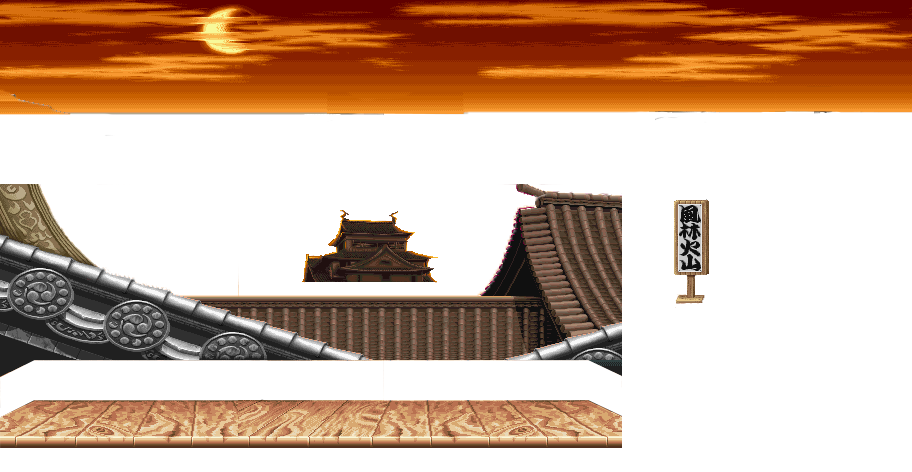
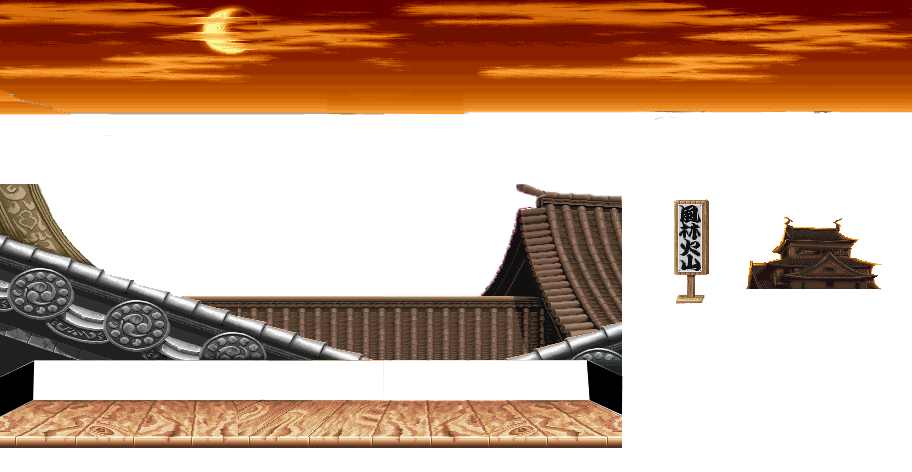
posar be el background + canvis
canvis:
Eliminacio del module scene honda
Eliminacio de alguns comentris iecesaris
problema:
Tenim memory leaks al canviar de la primera escena a la segona de lluita

diff --git a/Street Fighter (hangout 5)/ModuleSceneKen.cpp b/Street Fighter (hangout 5)/ModuleSceneKen.cpp
@@ -6,9 +6,10 @@
 #include "ModuleInput.h"
 #include "ModuleTextures.h"
 #include "ModuleSceneKen.h"
-#include "ModuleSceneHonda.h"
 #include "ModulePlayer.h"
 #include "ModuleFadeToBlack.h"
+#include "ModuleCongratsScreen.h"
+
 // Reference at https://www.youtube.com/watch?v=OEhmUuehGOA
 
 ModuleSceneKen::ModuleSceneKen()
@@ -31,6 +32,12 @@ ModuleSceneKen::ModuleSceneKen()
 	background.w = 622;
 	background.h = 193;
 
+	castle.x = 744;
+	castle.y = 215;
+	castle.w = 138;
+	castle.h = 73;
+
+
 
 	// for moving the foreground
 	foreground_pos = 0;
@@ -46,17 +53,8 @@ bool ModuleSceneKen::Start()
 	LOG("Loading ken scene");
 
 	graphics = App->textures->Load("scene_ryu.png");
-
-	// TODO 1: Enable (and properly disable) the player module
-	if (ModuleSceneKen::IsEnabled() == true) {
-		App->scene_ken->Enable();
-		App->player->Enable();
-		App->player2->Enable();
-	}
-	else {
-		App->player->Disable();
-		App->player2->Disable();
-	}
+	App->player->Enable();
+	App->player2->Enable();
 	return true;
 }
 
@@ -64,37 +62,26 @@ bool ModuleSceneKen::Start()
 bool ModuleSceneKen::CleanUp()
 {
 	LOG("Unloading ken scene");
-
+	App->textures->Unload(graphics);
+	App->player->Disable();
+	App->player2->Disable();
 	return true;
 }
 
 // Update: draw background
 update_status ModuleSceneKen::Update()
 {
-	// Calculate boat Y position -----------------------------
-	if (foreground_pos < -6.0f)
-		forward = false;
-	else if (foreground_pos > 0.0f)
-		forward = true;
-
-	if (forward)
-		foreground_pos -= 0.02f;
-	else
-		foreground_pos += 0.02f;
-
 	// Draw everything --------------------------------------
 	App->render->Blit(graphics, 0, 0, &sky, 0.75f);
-	App->render->Blit(graphics, 0, 0, &background, 0.75f); // sea and sky
-	App->render->Blit(graphics, 0, 170, &ground);
+	App->render->Blit(graphics, 280, 39, &castle);
+	App->render->Blit(graphics, 0, 0, &background, 0.75f);
+	App->render->Blit(graphics, 0, 176, &ground);
 
-	// TODO 2: make so pressing SPACE the HONDA stage is loaded
-	/*if (App->input->keyboard[SDL_SCANCODE_SPACE] == 1)
-	{
-		if (App->scene_ken->IsEnabled() == true)
-			App->fade->FadeToBlack(App->scene_ken, App->scene_honda);
 
-	}*/
-	if (App->player->position.x > 300)
-		App->fade->FadeToBlack(App->scene_ken, App->scene_honda);
+	if (App->input->keyboard[SDL_SCANCODE_SPACE] == 1) {
+		App->fade->FadeToBlack(App->scene_ken, App->congratsscreen,1);
+		if (App->player->position.x > 300)
+			App->fade->FadeToBlack(App->scene_ken, App->congratsscreen,1);
+	}
 	return UPDATE_CONTINUE;
 }

diff --git a/Street Fighter (hangout 5)/ModuleCongratsScreen.cpp b/Street Fighter (hangout 5)/ModuleCongratsScreen.cpp
@@ -3,7 +3,6 @@
 #include <crtdbg.h>
 #include "Globals.h"
 #include "Application.h"
-#include "ModuleSceneHonda.h"
 #include "ModuleSceneKen.h"
 #include "ModuleWelcomeScreen.h"
 #include "ModuleCongratsScreen.h"
@@ -18,23 +17,8 @@
 
 ModuleCongratsScreen::ModuleCongratsScreen()
 {
-	// ground
-	//ground = { 8, 376, 848, 64 };
-
-	// roof
-	//roof = { 91, 7, 765, 49 };
-
-	// foreground
-	//foreground = { 164, 66, 336, 51 };
-
 	// Background / sky
 	background = { 120, 128, 671, 300 };
-
-	// flag animation
-	/*water.PushBack({ 8, 447, 283, 9 });
-	water.PushBack({ 296, 447, 283, 12 });
-	water.PushBack({ 588, 447, 283, 18 });
-	water.speed = 0.02f;*/
 }
 
 ModuleCongratsScreen::~ModuleCongratsScreen()
@@ -46,9 +30,6 @@ bool ModuleCongratsScreen::Start()
 	LOG("Loading background assets");
 	bool ret = true;
 	graphics = App->textures->Load("honda_stage4.png");
-
-	// TODO 1: Enable (and properly disable) the player module
-	App->welcomescreen->Enable();
 	return ret;
 }
 
@@ -57,25 +38,16 @@ bool ModuleCongratsScreen::CleanUp()
 {
 	// TODO 5: Remove all memory leaks
 	LOG("Unloading honda stage");
-	_CrtDumpMemoryLeaks();
+	App->textures->Unload(graphics);
 	return true;
 }
 
 // Update: draw background
 update_status ModuleCongratsScreen::Update()
 {
-	// Draw everything --------------------------------------	
-	//App->render->Blit(graphics, 0, 160, &ground);
 	App->render->Blit(graphics, -150, -45, &background, 0.75f); // back of the room
-
-	//App->render->Blit(graphics, 280, 125, &foreground);
-	//App->render->Blit(graphics, 305, 136, &(water.GetCurrentFrame())); // water animation
-	//App->render->Blit(graphics, 0, -16, &roof, 0.75f);
-
-	// TODO 2: make so pressing SPACE the KEN stage is loaded
-	/*if (App->input->keyboard[SDL_SCANCODE_SPACE] == 1)
-	{
-		App->fade->FadeToBlack(App->congratsscreen, App->welcomescreen);
-	*/
+	if (App->input->keyboardstates[SDL_SCANCODE_SPACE] == 1) {
+		App->fade->FadeToBlack(App->congratsscreen, App->welcomescreen,1);
+	}
 	return UPDATE_CONTINUE;
 }

diff --git a/Street Fighter (hangout 5)/ModuleWelcomeScreen.cpp b/Street Fighter (hangout 5)/ModuleWelcomeScreen.cpp
@@ -3,7 +3,6 @@
 #include <crtdbg.h>
 #include "Globals.h"
 #include "Application.h"
-#include "ModuleSceneHonda.h"
 #include "ModuleSceneKen.h"
 #include "ModuleWelcomeScreen.h"
 #include "ModuleTextures.h"
@@ -17,23 +16,7 @@
 
 ModuleWelcomeScreen::ModuleWelcomeScreen()
 {
-	// ground
-	//ground = { 8, 376, 848, 64 };
-
-	// roof
-	//roof = { 91, 7, 765, 49 };
-
-	// foreground
-	//foreground = { 164, 66, 336, 51 };
-
-	// Background / sky
 	background = { 120, 128, 671, 300 };
-
-	// flag animation
-	/*water.PushBack({ 8, 447, 283, 9 });
-	water.PushBack({ 296, 447, 283, 12 });
-	water.PushBack({ 588, 447, 283, 18 });
-	water.speed = 0.02f;*/
 }
 
 ModuleWelcomeScreen::~ModuleWelcomeScreen()
@@ -45,9 +28,6 @@ bool ModuleWelcomeScreen::Start()
 	LOG("Loading background assets");
 	bool ret = true;
 	graphics = App->textures->Load("honda_stage3.png");
-
-	// TODO 1: Enable (and properly disable) the player module
-	App->welcomescreen->Enable();
 	return ret;
 }
 
@@ -56,25 +36,17 @@ bool ModuleWelcomeScreen::CleanUp()
 {
 	// TODO 5: Remove all memory leaks
 	LOG("Unloading honda stage");
-	_CrtDumpMemoryLeaks();
+	App->textures->Unload(graphics);
 	return true;
 }
 
 // Update: draw background
 update_status ModuleWelcomeScreen::Update()
 {
-	// Draw everything --------------------------------------	
-	//App->render->Blit(graphics, 0, 160, &ground);
 	App->render->Blit(graphics, -150, -45, &background, 0.75f); // back of the room
-
-	//App->render->Blit(graphics, 280, 125, &foreground);
-	//App->render->Blit(graphics, 305, 136, &(water.GetCurrentFrame())); // water animation
-	//App->render->Blit(graphics, 0, -16, &roof, 0.75f);
-
-	// TODO 2: make so pressing SPACE the KEN stage is loaded
 	if (App->input->keyboard[SDL_SCANCODE_SPACE] == 1)
 	{
-		App->fade->FadeToBlack(App->welcomescreen, App->scene_ken);
+		App->fade->FadeToBlack(App->welcomescreen, App->scene_ken,1);
 	}
 	return UPDATE_CONTINUE;
 }

diff --git a/Street Fighter (hangout 5)/Application.cpp b/Street Fighter (hangout 5)/Application.cpp
@@ -4,7 +4,6 @@
 #include "ModuleInput.h"
 #include "ModuleTextures.h"
 #include "ModuleSceneKen.h"
-#include "ModuleSceneHonda.h"
 #include "ModuleWelcomeScreen.h"
 #include "ModuleCongratsScreen.h"
 #include "ModulePlayer.h"
@@ -19,16 +18,15 @@ Application::Application()
 	modules[1] = render = new ModuleRender();
 	modules[2] = input = new ModuleInput();
 	modules[3] = textures = new ModuleTextures();
-	modules[4] = scene_honda = new ModuleSceneHonda();
-	modules[5] = scene_ken = new ModuleSceneKen();
-	modules[6] = player = new ModulePlayer();
-	modules[7] = fade = new ModuleFadeToBlack();
-	modules[8] = welcomescreen = new ModuleWelcomeScreen();
-	modules[9] = congratsscreen = new ModuleCongratsScreen();
-	modules[10] = particles = new ModuleParticles();
-	modules[11] = audio = new ModuleAudio();
-	modules[12] = collision = new ModuleCollision();
-	modules[13] = player2 = new ModulePlayer();
+	modules[4] = scene_ken = new ModuleSceneKen();
+	modules[5] = player = new ModulePlayer();
+	modules[6] = fade = new ModuleFadeToBlack();
+	modules[7] = welcomescreen = new ModuleWelcomeScreen();
+	modules[8] = congratsscreen = new ModuleCongratsScreen();
+	modules[9] = particles = new ModuleParticles();
+	modules[10] = audio = new ModuleAudio();
+	modules[11] = collision = new ModuleCollision();
+	modules[12] = player2 = new ModulePlayer();
 }	
 
 Application::~Application()
@@ -41,11 +39,8 @@ bool Application::Init()
 {
 	bool ret = true;
 
-	// Player will be enabled on the first update of a new scene
 	player->Disable();
 	player2->Disable();
-	// Disable the map that you do not start with
-	scene_honda->Disable();
 	scene_ken->Disable();
 	congratsscreen->Disable();
 	for(int i = 0; i < NUM_MODULES && ret == true; ++i)

diff --git a/Street Fighter (hangout 5)/ModuleFadeToBlack.cpp b/Street Fighter (hangout 5)/ModuleFadeToBlack.cpp
@@ -40,10 +40,8 @@ update_status ModuleFadeToBlack::Update()
 		{
 			if(now >= total_time)
 			{
-				// TODO 3: enable / disable the modules received when FadeToBlacks() gets called
 				moduleoff->Disable();
 				moduleon->Enable();
-				// ---
 				total_time += total_time;
 				start_time = SDL_GetTicks();
 				current_step = fade_step::fade_from_black;		
@@ -71,13 +69,13 @@ update_status ModuleFadeToBlack::Update()
 bool ModuleFadeToBlack::FadeToBlack(Module* module_off, Module* module_on, float time)
 {
 	bool ret = false;
-	moduleoff = module_off;
-	moduleon = module_on;
 	if(current_step == fade_step::none)
 	{
 		current_step = fade_step::fade_to_black;
 		start_time = SDL_GetTicks();
 		total_time = (Uint32)(time * 0.5f * 1000.0f);
+		moduleoff = module_off;
+		moduleon = module_on;
 		ret = true;
 	}
 

diff --git a/Street Fighter (hangout 5)/Application.h b/Street Fighter (hangout 5)/Application.h
@@ -3,14 +3,13 @@
 
 #include "Globals.h"
 
-#define NUM_MODULES 14
+#define NUM_MODULES 13
 
 class ModuleWindow;
 class ModuleInput;
 class ModuleTextures;
 class ModuleRender;
 class ModuleSceneKen;
-class ModuleSceneHonda;
 class ModuleWelcomeScreen; //
 class ModuleCongratsScreen; //
 class ModulePlayer;
@@ -30,7 +29,6 @@ public:
 	ModuleInput* input;
 	ModuleTextures* textures;
 	ModuleSceneKen* scene_ken;
-	ModuleSceneHonda* scene_honda;
 	ModulePlayer* player;
 	ModulePlayer* player2;
 	ModuleFadeToBlack* fade;

diff --git a/Street Fighter (hangout 5)/ModuleWelcomeScreen.h b/Street Fighter (hangout 5)/ModuleWelcomeScreen.h
@@ -2,10 +2,10 @@
 #define __MODULEWELCOMESCENE_H__
 
 #include "Module.h"
-#include "Animation.h"
 #include "Globals.h"
 
 struct SDL_Texture;
+struct Mix_Chunk;
 
 class ModuleWelcomeScreen : public Module
 {
@@ -20,11 +20,8 @@ public:
 public:
 
 	SDL_Texture* graphics = nullptr;
-	SDL_Rect ground;
-	SDL_Rect roof;
-	SDL_Rect foreground;
+	//Mix_Chunk *audio=nullptr;
 	SDL_Rect background;
-	Animation water;
 };
 
 #endif // __MODULEWELCOMESCENE_H__

diff --git a/Street fighter/ModuleFadeToBlack.cpp b/Street fighter/ModuleFadeToBlack.cpp
@@ -39,8 +39,6 @@ update_status ModuleFadeToBlack::Update()
 		{
 			if(now >= total_time)
 			{
-				// TODO 3: enable / disable the modules received when FadeToBlacks() gets called
-				// ---
 				to_disable->Disable();
 				to_enable->Enable();
 				total_time += total_time;

diff --git a/Street Fighter (hangout 5)/ModulePlayer.cpp b/Street Fighter (hangout 5)/ModulePlayer.cpp
@@ -5,7 +5,6 @@
 #include "ModuleRender.h"
 #include "ModulePlayer.h"
 #include "ModuleFadeToBlack.h"
-#include "ModuleSceneHonda.h"
 #include "ModuleSceneKen.h"
 #include "ModuleCongratsScreen.h"
 #include "ModuleParticles.h"

diff --git a/Street Fighter (hangout 5)/ModuleSceneKen.h b/Street Fighter (hangout 5)/ModuleSceneKen.h
@@ -23,6 +23,8 @@ public:
 	SDL_Rect ground;
 	SDL_Rect sky;
 	SDL_Rect background;
+	SDL_Rect castle;
+	//falta la musica de fons
 
 	float foreground_pos;
 	bool forward;
